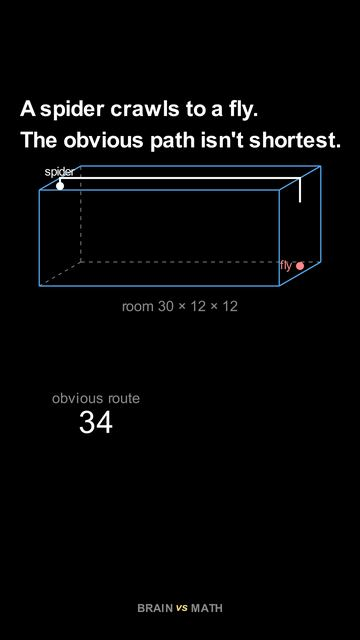
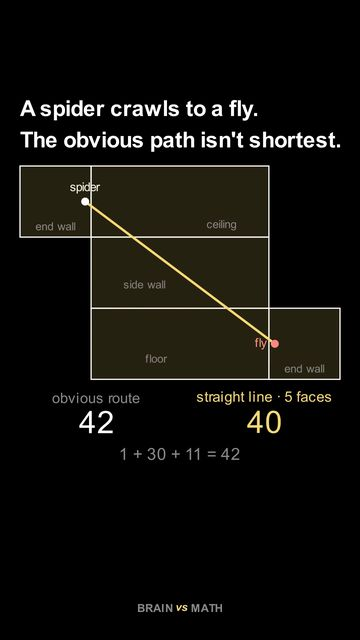
Puzzle pages after a review: the triangle count explanation, a spider poster that matches the text, contrast in the light theme
- Triangles: the FAQ adds up to 27 (16 small, then 6 + 3 + 1 bigger ones
  pointing up and one pointing down); the "easy mistake" section and the index
  card say that the bigger triangles are what a count of 16 misses.
- Spider: the poster is the frame with the unfolded room, the 40 straight line
  and the 42 obvious route; "five faces" instead of "five walls"; the straight
  line counts only while it stays on the unfolded walls; the room-length slider
  starts from the value the browser restores.
- Light theme: theme-aware strokes for the triangles and the spider path, a dark
  underlay under the board highlight, a check mark on the selected chip.
- Play no longer doubles its label with aria-pressed, the live region is quiet
  while playing, focus moves to the player, FAQ rows are 44 px.
- Embed heights fit the content; channel lines say what the descriptions say;
  the privacy date is the day the section went up.

diff --git a/puzzles/spider-and-fly-problem/index.html b/puzzles/spider-and-fly-problem/index.html
@@ -12,7 +12,7 @@
 <meta name="theme-color" content="#0b1220">
 <meta property="og:type" content="article">
 <meta property="og:site_name" content="Brain vs Math">
-<meta property="og:title" content="The spider and the fly: the shortest path crosses five walls">
+<meta property="og:title" content="The spider and the fly: the shortest path crosses five faces of the room">
 <meta property="og:description" content="Unfold the room flat and the shortest path is a straight line of 40, not 42.">
 <meta property="og:url" content="https://brainvsmath.com/puzzles/spider-and-fly-problem/">
 <meta property="og:image" content="https://brainvsmath.com/assets/img/og.png">
@@ -82,7 +82,7 @@
       <tbody id="spRows"></tbody>
     </table>
     <label class="pz-label" for="spLen">Room length: <span id="spLenOut">30</span></label>
-    <input id="spLen" type="range" min="10" max="40" step="1" value="30" style="width:100%;min-height:44px">
+    <input id="spLen" type="range" min="10" max="40" step="1" value="30" autocomplete="off" style="width:100%;min-height:44px">
     <p class="muted" style="font-size:.85rem;margin:.2rem 0 0">The room stays 12 wide and 12 high. Watch which of the four unfoldings gives the shortest path as the room gets longer.</p>
   </section>
   <p class="pz-embed-bar"><a href="https://brainvsmath.com/puzzles/spider-and-fly-problem/">The spider and the fly · Brain vs Math</a></p>
@@ -92,7 +92,7 @@
       <summary>The answer: 40</summary>
       <p>The obvious route goes up 1 to the ceiling, straight across 30, and down 11: 42. Going round a side wall instead is longer, about 43.17.</p>
       <p>Now unfold the room so that the end wall, the ceiling, a side wall, the floor and the other end wall lie flat in a chain. On that flat sheet the spider and the fly are 32 apart one way and 24 apart the other, so the straight line between them is the long side of a 24-32-40 right triangle: <strong>40</strong>. Fold the walls back up and that line becomes a path that crosses five of the six faces, shorter than the obvious one.</p>
-      <p>This is a classic puzzle by Henry Dudeney. The trick works for any path on the surface of a box: on a flat unfolding the shortest route is a straight line, so the question becomes which unfolding brings the two points closest.</p>
+      <p>This is a classic puzzle by Henry Dudeney. The trick works for any path on the surface of a box: on a flat unfolding the shortest route is a straight line, as long as that line stays on the unfolded walls, so the question becomes which unfolding brings the two points closest.</p>
     </details>
 
     <h2>Why a longer room changes the answer</h2>
@@ -101,13 +101,13 @@
     <h2>Watch it in under a minute</h2>
     <div class="pz-video">
       <div class="pz-video-box" data-yt="XNTGv8Ch66M" data-title="Unfold a Room Flat and the Spider's Shortest Path to the Fly Crosses Five Walls">
-        <img src="../../assets/img/puzzles/spider-and-fly-problem.jpg" alt="Video still: the unfolded room with the straight path from the spider to the fly" width="360" height="640" loading="lazy">
+        <img src="../../assets/img/puzzles/spider-and-fly-problem.jpg" alt="Video still: the room unfolded flat, with the straight path of 40 from the spider to the fly beside the obvious route of 42" width="360" height="640" loading="lazy">
         <button class="pz-play" type="button" aria-label="Play the video"><span class="tri" aria-hidden="true"></span>Play</button>
       </div>
       <div>
         <p class="muted">The video plays from YouTube when you press play, and not before.</p>
         <p><a class="btn primary" href="https://www.youtube.com/@brainversusmath?sub_confirmation=1" rel="noopener">Subscribe to Brain vs Math on YouTube</a></p>
-        <p class="muted">New visual proofs every day, each a question with a surprising count, length or shape.</p>
+        <p class="muted">More visual proofs, one idea at a time.</p>
       </div>
     </div>
 
@@ -131,7 +131,7 @@
     <div class="pz-embed">
       <p class="muted">Paste this code into a class page or a learning platform to show the unfolding tool there. It is free to use for teaching, with the link back kept.</p>
       <label class="pz-label" for="embedCode">Embed code</label>
-      <textarea id="embedCode" readonly data-name="The spider and the fly" data-height="1000"></textarea>
+      <textarea id="embedCode" readonly data-name="The spider and the fly" data-height="1250"></textarea>
       <button class="btn" id="embedCopy" type="button">Copy the code</button>
     </div>
 

diff --git a/puzzles/count-the-triangles/index.html b/puzzles/count-the-triangles/index.html
@@ -80,7 +80,7 @@
     <div class="pz-row" role="group" aria-label="Move to another triangle">
       <button class="btn" id="trPrev" type="button">Back</button>
       <button class="btn primary" id="trNext" type="button">Next triangle</button>
-      <button class="btn ghost" id="trPlay" type="button" aria-pressed="false">Play</button>
+      <button class="btn ghost" id="trPlay" type="button">Play</button>
     </div>
     <p class="pz-status" id="trStatus" aria-live="polite"></p>
     <p class="muted" style="font-size:.85rem;margin:.2rem 0 0">Pointing up: solid outline. Pointing down: dashed outline.</p>
@@ -102,7 +102,7 @@
     </details>
 
     <h2>The easy mistake</h2>
-    <p class="muted">Most counts miss the triangles that point down. In the 4-part picture there are 7 of them, and the size 2 one in the middle is the one people overlook, because its corners sit on the middle of the sides rather than on the corners of the big triangle.</p>
+    <p class="muted">Most counts stop at the 16 small triangles and miss the bigger ones: 10 more pointing up (6 of size 2, 3 of size 3 and the whole triangle) and one pointing down. That size 2 triangle in the middle is the easiest to overlook, because it points down and its corners sit on the middle of the sides rather than on the corners of the big triangle.</p>
 
     <h2>Watch it in under a minute</h2>
     <div class="pz-video">
@@ -113,7 +113,7 @@
       <div>
         <p class="muted">The video plays from YouTube when you press play, and not before.</p>
         <p><a class="btn primary" href="https://www.youtube.com/@brainversusmath?sub_confirmation=1" rel="noopener">Subscribe to Brain vs Math on YouTube</a></p>
-        <p class="muted">New visual proofs every day, each a question with a surprising count, length or shape.</p>
+        <p class="muted">More visual proofs, one idea at a time.</p>
       </div>
     </div>
 
@@ -121,7 +121,7 @@
     <div class="faq">
       <details>
         <summary>Why isn't the answer 16?</summary>
-        <p>16 counts only the smallest triangles. Groups of small triangles form bigger ones: 6 of size 2 and 3 of size 3 pointing up, one big one, and 7 pointing down.</p>
+        <p>16 counts only the smallest triangles, 10 pointing up and 6 pointing down. Groups of small triangles form bigger ones: 6 of size 2 and 3 of size 3 pointing up, the whole triangle, and one of size 2 pointing down: 16 + 6 + 3 + 1 + 1 = 27.</p>
       </details>
       <details>
         <summary>How many triangles are there with 5 parts on each side?</summary>
@@ -137,14 +137,14 @@
     <div class="pz-embed">
       <p class="muted">Paste this code into a class page or a learning platform to show the counting grid there. It is free to use for teaching, with the link back kept.</p>
       <label class="pz-label" for="embedCode">Embed code</label>
-      <textarea id="embedCode" readonly data-name="How many triangles are in this picture?" data-height="900"></textarea>
+      <textarea id="embedCode" readonly data-name="How many triangles are in this picture?" data-height="1500"></textarea>
       <button class="btn" id="embedCopy" type="button">Copy the code</button>
     </div>
 
     <h2>More puzzles</h2>
     <div class="pz-list">
       <a class="mini-card" href="../how-many-squares-on-a-chessboard/"><img src="../../assets/img/puzzles/how-many-squares-on-a-chessboard.jpg" alt="" width="72" height="128" loading="lazy"><span><strong>How many squares on a chessboard?</strong><br><span class="muted">Not 64, but 204.</span></span></a>
-      <a class="mini-card" href="../spider-and-fly-problem/"><img src="../../assets/img/puzzles/spider-and-fly-problem.jpg" alt="" width="72" height="128" loading="lazy"><span><strong>The spider and the fly</strong><br><span class="muted">The shortest path crosses five walls.</span></span></a>
+      <a class="mini-card" href="../spider-and-fly-problem/"><img src="../../assets/img/puzzles/spider-and-fly-problem.jpg" alt="" width="72" height="128" loading="lazy"><span><strong>The spider and the fly</strong><br><span class="muted">The shortest path crosses five faces of the room.</span></span></a>
       <a class="mini-card" href="../"><span style="grid-column:1 / -1"><strong>All puzzles</strong></span></a>
     </div>
   </section>

diff --git a/assets/css/puzzles.css b/assets/css/puzzles.css
@@ -1,7 +1,12 @@
 /* ============================================================
    Brain vs Math — puzzle pages (/puzzles/). Loaded after main.css.
-   Every control is 44 px or more; state is never shown by colour alone.
+   Every puzzle control (chips, buttons, slider, play, copy) is 44 px or more, and so are the FAQ rows here;
+   state is never shown by colour alone.
    ============================================================ */
+
+:root { --pz-gold: #fbbf24; --pz-up: #22d3ee; --pz-down: #f472b6; --pz-ring: #22d3ee; }
+[data-theme="light"] { --pz-gold: #b45309; --pz-up: #0e7490; --pz-down: #be185d; --pz-ring: #0e7490; }
+@media (prefers-color-scheme: light) { :root:not([data-theme]) { --pz-gold: #b45309; --pz-up: #0e7490; --pz-down: #be185d; --pz-ring: #0e7490; } }
 
 .pz-q { font-size: clamp(1.45rem, 4.6vw, 2rem); line-height: 1.25; margin: .2rem 0 .6rem; }
 .pz-lede { font-size: 1.05rem; }
@@ -10,7 +15,8 @@
 .pz-row { display: flex; flex-wrap: wrap; gap: .45rem; margin: .7rem 0; }
 .pz-row .chip, .pz-row .btn { min-height: 44px; min-width: 44px; }
 .pz-label { display: block; font-weight: 700; font-size: .9rem; color: var(--muted); margin: .9rem 0 .1rem; }
-.chip[aria-pressed="true"] { border-color: var(--cyan); color: var(--text); box-shadow: 0 0 0 2px var(--cyan) inset; font-weight: 800; }
+.chip[aria-pressed="true"] { border-color: var(--pz-ring); color: var(--text); box-shadow: 0 0 0 2px var(--pz-ring) inset; font-weight: 800; }
+.chip[aria-pressed="true"]::before { content: "\2713\00a0"; }
 .pz-status { font-weight: 700; min-height: 1.6em; margin: .5rem 0 0; }
 .pz-total { font-size: 1.5rem; font-weight: 800; color: var(--cyan); }
 
@@ -19,17 +25,18 @@
 .pz-stage svg { width: 100%; max-width: 460px; height: auto; touch-action: manipulation; }
 .pz-cell-a { fill: #e9edf4; }
 .pz-cell-b { fill: #6b7a92; }
-.pz-hl { fill: rgba(251, 191, 36, .28); stroke: var(--gold); stroke-width: 3.5; }
-.pz-hl-ghost { fill: none; stroke: var(--gold); stroke-width: 1.2; stroke-dasharray: 4 3; opacity: .55; }
+.pz-hl { fill: rgba(251, 191, 36, .28); stroke: #fbbf24; stroke-width: 3.5; }
+.pz-hl-under { fill: none; stroke: #111827; stroke-width: 8; }
+.pz-hl-ghost { fill: none; stroke: #111827; stroke-width: 1.6; stroke-dasharray: 4 3; opacity: .8; }
 .pz-grid-line { stroke: var(--muted); stroke-width: 1.4; fill: none; }
-.pz-tri-up { fill: rgba(34, 211, 238, .30); stroke: var(--cyan); stroke-width: 3; }
-.pz-tri-down { fill: rgba(244, 114, 182, .30); stroke: var(--pink); stroke-width: 3; stroke-dasharray: 7 4; }
+.pz-tri-up { fill: rgba(34, 211, 238, .30); stroke: var(--pz-up); stroke-width: 3.5; }
+.pz-tri-down { fill: rgba(244, 114, 182, .30); stroke: var(--pz-down); stroke-width: 3.5; stroke-dasharray: 7 4; }
 .pz-face { fill: var(--surface2); stroke: var(--muted); stroke-width: 1.2; }
 .pz-face-used { fill: color-mix(in srgb, var(--surface2) 70%, var(--cyan) 18%); }
 .pz-face-label { fill: var(--text); font-size: 15px; font-family: var(--font); }
 .pz-edge { stroke: var(--muted); stroke-width: 1.4; fill: none; }
 .pz-edge-back { stroke: var(--muted); stroke-width: 1; fill: none; stroke-dasharray: 4 3; opacity: .7; }
-.pz-path { stroke: var(--gold); stroke-width: 3.5; fill: none; stroke-linecap: round; }
+.pz-path { stroke: var(--pz-gold); stroke-width: 4; fill: none; stroke-linecap: round; }
 .pz-dot-s { fill: var(--pink); stroke: #071018; stroke-width: 1.5; }
 .pz-dot-f { fill: var(--cyan); stroke: #071018; stroke-width: 1.5; }
 .pz-dot-label { font-size: 15px; font-weight: 800; fill: var(--text); font-family: var(--font); }
@@ -42,6 +49,7 @@
 .pz-table tfoot td { font-weight: 800; }
 
 /* answer reveal */
+.seo-block .faq summary { min-height: 44px; display: flex; align-items: center; }
 .pz-reveal summary { min-height: 44px; display: flex; align-items: center; font-weight: 800; cursor: pointer; }
 
 /* the video: a local poster until the visitor presses play (no request to YouTube before that) */

diff --git a/puzzles/how-many-squares-on-a-chessboard/index.html b/puzzles/how-many-squares-on-a-chessboard/index.html
@@ -80,7 +80,7 @@
     <div class="pz-row" role="group" aria-label="Move the square">
       <button class="btn" id="cbPrev" type="button">Back</button>
       <button class="btn primary" id="cbNext" type="button">Next position</button>
-      <button class="btn ghost" id="cbPlay" type="button" aria-pressed="false">Play</button>
+      <button class="btn ghost" id="cbPlay" type="button">Play</button>
     </div>
     <p class="pz-status" id="cbStatus" aria-live="polite"></p>
     <table class="pz-table">
@@ -111,7 +111,7 @@
       <div>
         <p class="muted">The video plays from YouTube when you press play, and not before.</p>
         <p><a class="btn primary" href="https://www.youtube.com/@brainversusmath?sub_confirmation=1" rel="noopener">Subscribe to Brain vs Math on YouTube</a></p>
-        <p class="muted">New visual proofs every day, each a question with a surprising count, length or shape.</p>
+        <p class="muted">More visual proofs, one idea at a time.</p>
       </div>
     </div>
 
@@ -135,14 +135,14 @@
     <div class="pz-embed">
       <p class="muted">Paste this code into a class page or a learning platform to show the counting board there. It is free to use for teaching, with the link back kept.</p>
       <label class="pz-label" for="embedCode">Embed code</label>
-      <textarea id="embedCode" readonly data-name="How many squares are on a chessboard?" data-height="900"></textarea>
+      <textarea id="embedCode" readonly data-name="How many squares are on a chessboard?" data-height="1450"></textarea>
       <button class="btn" id="embedCopy" type="button">Copy the code</button>
     </div>
 
     <h2>More puzzles</h2>
     <div class="pz-list">
       <a class="mini-card" href="../count-the-triangles/"><img src="../../assets/img/puzzles/count-the-triangles.jpg" alt="" width="72" height="128" loading="lazy"><span><strong>How many triangles?</strong><br><span class="muted">A triangle cut into 16 holds 27.</span></span></a>
-      <a class="mini-card" href="../spider-and-fly-problem/"><img src="../../assets/img/puzzles/spider-and-fly-problem.jpg" alt="" width="72" height="128" loading="lazy"><span><strong>The spider and the fly</strong><br><span class="muted">The shortest path crosses five walls.</span></span></a>
+      <a class="mini-card" href="../spider-and-fly-problem/"><img src="../../assets/img/puzzles/spider-and-fly-problem.jpg" alt="" width="72" height="128" loading="lazy"><span><strong>The spider and the fly</strong><br><span class="muted">The shortest path crosses five faces of the room.</span></span></a>
       <a class="mini-card" href="../"><span style="grid-column:1 / -1"><strong>All puzzles</strong></span></a>
     </div>
   </section>

diff --git a/puzzles/index.html b/puzzles/index.html
@@ -60,12 +60,12 @@
 <main class="container narrow" style="margin-top:1.4rem">
   <div class="kicker">Puzzles from the videos</div>
   <h1 class="pz-q">Math puzzles you can try yourself</h1>
-  <p class="pz-lede muted">Each Brain vs Math video asks a question with a surprising answer. Here you can work it out with your own hands: count the pieces one at a time, or unfold the shape and measure. Every page has the short video too.</p>
+  <p class="pz-lede muted">These Brain vs Math videos each ask a question with a surprising answer. Here you can work it out with your own hands: count the pieces one at a time, or unfold the shape and measure. Every page has the short video too.</p>
 
   <div class="pz-list">
-    <a class="mini-card" href="spider-and-fly-problem/"><img src="../assets/img/puzzles/spider-and-fly-problem.jpg" alt="" width="72" height="128"><span><strong>The spider and the fly</strong><br><span class="muted">The obvious path is 42. Unfold the room and the shortest is 40, across five walls.</span></span></a>
+    <a class="mini-card" href="spider-and-fly-problem/"><img src="../assets/img/puzzles/spider-and-fly-problem.jpg" alt="" width="72" height="128"><span><strong>The spider and the fly</strong><br><span class="muted">The obvious path is 42. Unfold the room and the shortest is 40, across five faces.</span></span></a>
     <a class="mini-card" href="how-many-squares-on-a-chessboard/"><img src="../assets/img/puzzles/how-many-squares-on-a-chessboard.jpg" alt="" width="72" height="128"><span><strong>How many squares on a chessboard?</strong><br><span class="muted">Not 64. Count every size up to the whole board: 204.</span></span></a>
-    <a class="mini-card" href="count-the-triangles/"><img src="../assets/img/puzzles/count-the-triangles.jpg" alt="" width="72" height="128"><span><strong>How many triangles?</strong><br><span class="muted">A triangle cut into 16 small ones holds 27, if you count the ones pointing down.</span></span></a>
+    <a class="mini-card" href="count-the-triangles/"><img src="../assets/img/puzzles/count-the-triangles.jpg" alt="" width="72" height="128"><span><strong>How many triangles?</strong><br><span class="muted">A triangle cut into 16 small ones holds 27, once you count the bigger ones too.</span></span></a>
   </div>
 
   <section class="seo-block">

diff --git a/assets/js/puzzle-chessboard.js b/assets/js/puzzle-chessboard.js
@@ -39,6 +39,7 @@
     for (var cc = 0; cc < col; cc++) {
       P.el("rect", { x: cc * CELL + 3, y: row * CELL + 3, width: k * CELL - 6, height: k * CELL - 6, "class": "pz-hl-ghost" }, g);
     }
+    P.el("rect", { x: col * CELL + 2, y: row * CELL + 2, width: k * CELL - 4, height: k * CELL - 4, "class": "pz-hl-under" }, g);
     P.el("rect", { x: col * CELL + 2, y: row * CELL + 2, width: k * CELL - 4, height: k * CELL - 4, "class": "pz-hl" }, g);
     svg.setAttribute("aria-label", n + " by " + n + " board. A " + k + " by " + k + " square in row " + (row + 1) +
       ", column " + (col + 1) + ": position " + (pos + 1) + " of " + count(n, k) + ".");
@@ -77,12 +78,12 @@
   function stop() {
     if (timer) { clearInterval(timer); timer = null; }
     btnPlay.textContent = "Play";
-    btnPlay.setAttribute("aria-pressed", "false");
+    status.setAttribute("aria-live", "polite");
   }
   function play() {
     if (timer) { stop(); return; }
     btnPlay.textContent = "Pause";
-    btnPlay.setAttribute("aria-pressed", "true");
+    status.setAttribute("aria-live", "off");
     timer = setInterval(function () { step(1); }, 450);
   }
 

diff --git a/assets/js/puzzle-triangles.js b/assets/js/puzzle-triangles.js
@@ -101,12 +101,12 @@
   function stop() {
     if (timer) { clearInterval(timer); timer = null; }
     btnPlay.textContent = "Play";
-    btnPlay.setAttribute("aria-pressed", "false");
+    status.setAttribute("aria-live", "polite");
   }
   function play() {
     if (timer) { stop(); return; }
     btnPlay.textContent = "Pause";
-    btnPlay.setAttribute("aria-pressed", "true");
+    status.setAttribute("aria-live", "off");
     timer = setInterval(function () { step(1); }, 600);
   }
 

diff --git a/privacy/index.html b/privacy/index.html
@@ -35,7 +35,7 @@
 <main class="container narrow prose" style="margin-top:1.4rem">
 
   <h1>Privacy Policy</h1>
-  <p class="post-meta">Effective date: November 5, 2026</p>
+  <p class="post-meta">Effective date: November 4, 2026</p>
 
   <p>
     Brain vs Math ("we", "the site") is built to ask for as little as possible: the games, tools

diff --git a/assets/js/puzzle-spider.js b/assets/js/puzzle-spider.js
@@ -17,7 +17,8 @@
   var tbody = document.getElementById("spRows");
   if (!svg) return;
 
-  var W = 12, H = 12, A = 1, B = 1, L = 30, route = 4;
+  var W = 12, H = 12, A = 1, B = 1, L = parseInt(lenIn.value, 10) || 30, route = 4;
+  lenOut.textContent = String(L);
 
   function nets(L) {
     var S = [-A, W / 2];

diff --git a/assets/js/puzzle-common.js b/assets/js/puzzle-common.js
@@ -69,6 +69,8 @@
         f.allowFullscreen = true;
         box.innerHTML = "";
         box.appendChild(f);
+        f.setAttribute("tabindex", "-1");
+        f.focus();
       });
     });
 
